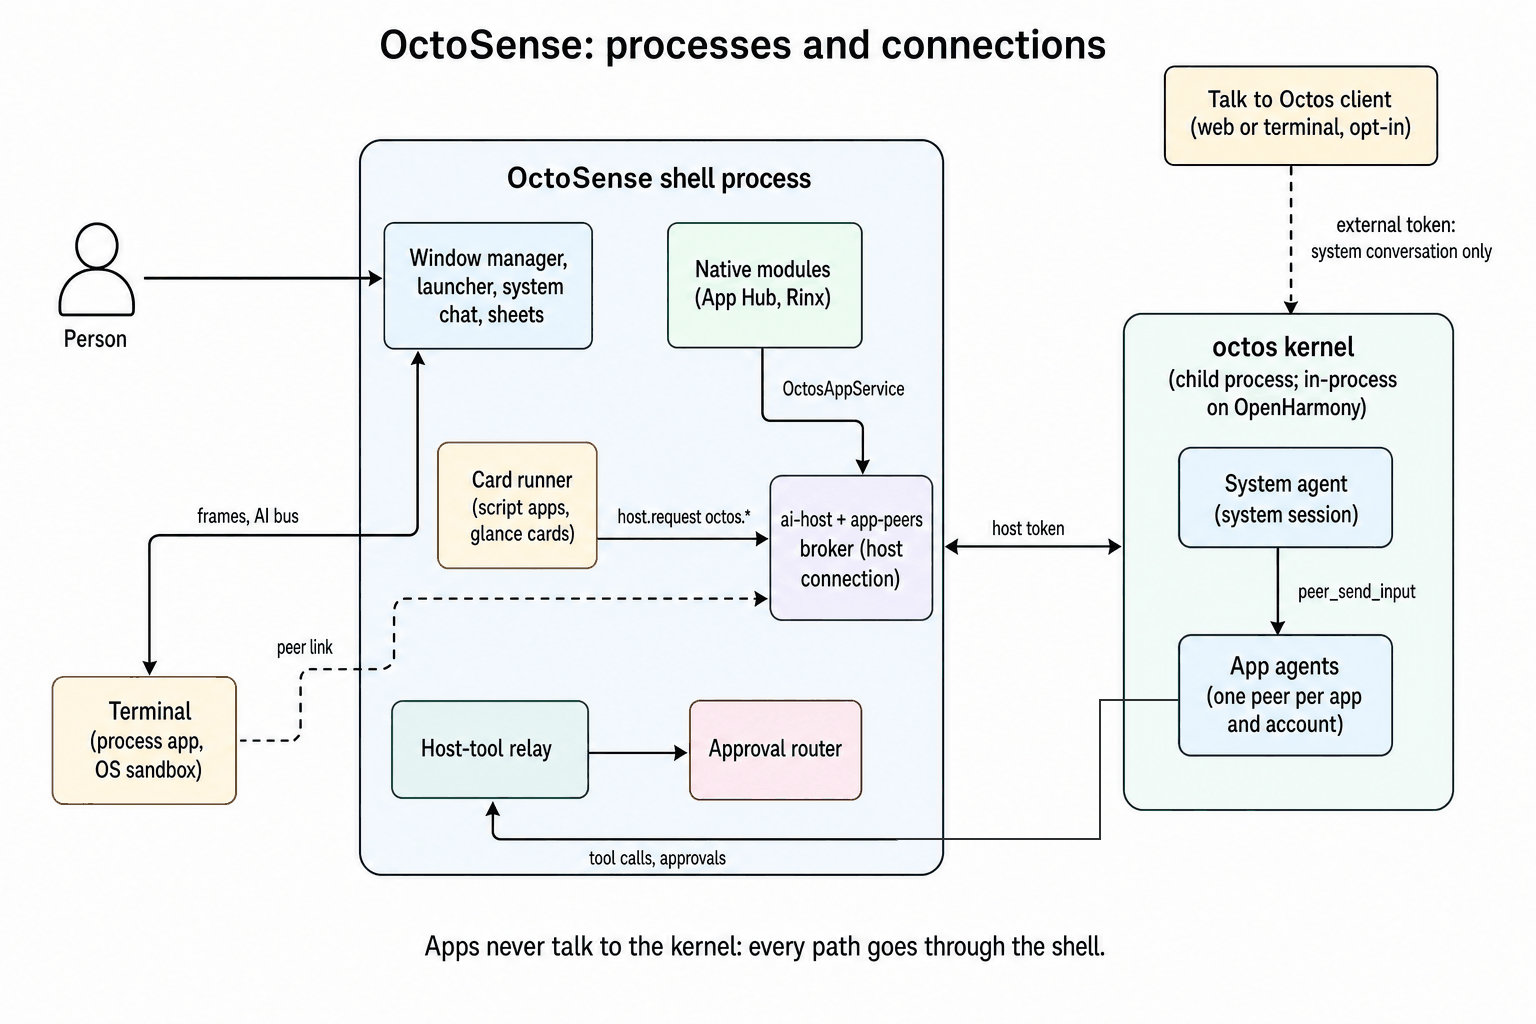
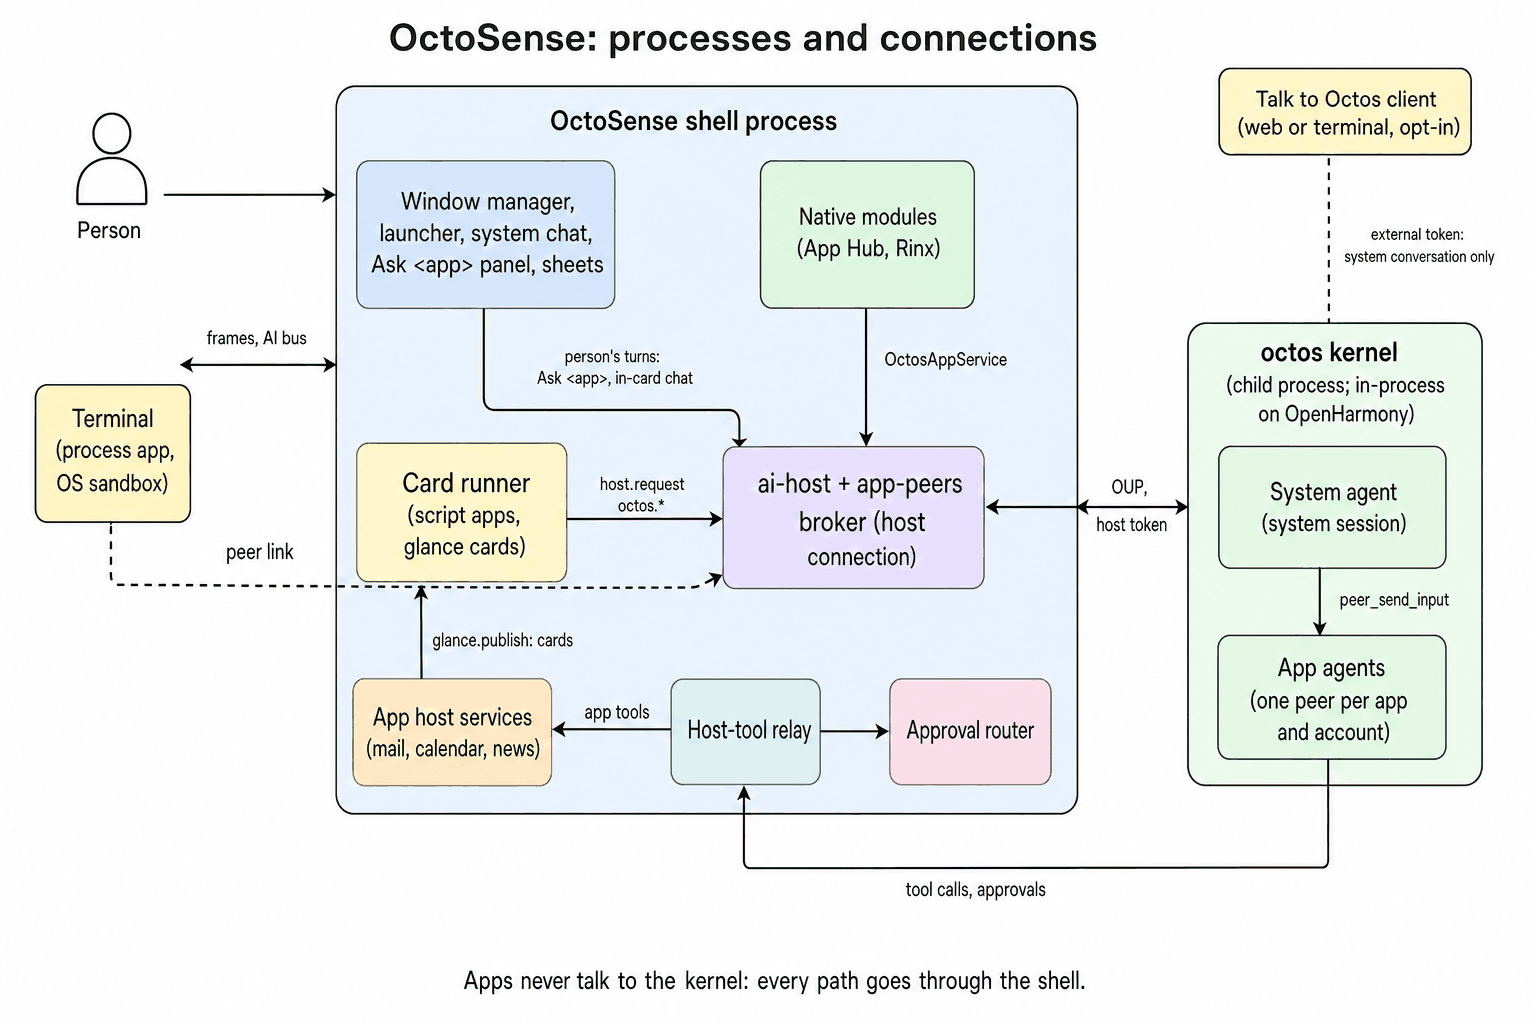
docs: redraw the README's architecture drawings (gpt-image-2)
The drawings were from 2026-09-29 and no longer matched main:

- agents-processes.png: adds the "Ask <app>" panel in the shell's UI, the
  person's turns from it and from in-card chat to the broker, and the app
  host services (mail, calendar, news) the relay routes app tools to, which
  publish glance cards. The Mermaid text version gains the same nodes.
- agents-two-lanes.png: back, without the "Two lanes: in progress" badge
  (both lanes are on main) and with the person's arrow labelled "the
  shell's Ask <app> panel, a card's chat or the app's own UI".
- agents-tool-call.png: the relay's grant, schema and budget checks inside
  each branch and the confirm: app hand-off through the approval router, as
  the Mermaid has them; the example is calendar.remove_event (destructive,
  confirm: host) instead of mail.send, which no app has.
- agents-card-flow.png (new): the system agent -> Mail's agent ->
  mail.notify -> glance card -> in-card chat sequence, with its Mermaid
  moved into a text version like the others.

Drawn with gpt-image-2 and checked label by label against the Mermaid and
the code; quantized to 128 colours (about 460 KB each). English and Chinese
READMEs together.

diff --git a/README.zh-CN.md b/README.zh-CN.md
@@ -29,12 +29,13 @@ flowchart LR
   person(["用户"])
   ext["Talk to Octos 客户端<br/>网页或终端，需手动开启"]
   subgraph shellp["OctoSense Shell 进程"]
-    ui["窗口管理器、启动器、<br/>系统对话、面板"]
+    ui["窗口管理器、启动器、<br/>系统对话、Ask app 面板、面板"]
     mods["原生模块<br/>App Hub、Rinx"]
     runner["Card runner<br/>脚本应用、glance 卡片"]
     aihost["ai-host + app-peers 代理<br/>宿主连接"]
     relay["宿主工具中转"]
     router["审批路由"]
+    svc["应用宿主服务<br/>mail、calendar、news"]
   end
   term["Terminal<br/>在系统沙箱中的进程应用"]
   subgraph kern["octos 内核：子进程，OpenHarmony 上在进程内"]
@@ -44,6 +45,7 @@ flowchart LR
   person --> ui
   ui --- mods
   ui --- runner
+  ui -->|"用户的回合：<br/>Ask app、卡内对话"| aihost
   mods -->|"OctosAppService"| aihost
   runner -->|"host.request octos.*"| aihost
   term <-->|"hub：画面、AI bus"| ui
@@ -52,6 +54,8 @@ flowchart LR
   sys -->|"peer_send_input"| peers
   kern -->|"peer/tool/call、审批"| relay
   relay --> router
+  relay -->|"应用的工具"| svc
+  svc -->|"glance.publish：卡片"| runner
   ext -.->|"外部 token：<br/>只能用系统对话"| sys
 ```
 
@@ -90,6 +94,10 @@ flowchart LR
 
 **从系统 Agent 到 glance 屏幕上的一张卡片**：
 
+![From the system agent to a card on the glance screen](docs/images/agents-card-flow.png)
+
+<details><summary>文字版（Mermaid）</summary>
+
 ```mermaid
 sequenceDiagram
   autonumber
@@ -116,12 +124,18 @@ sequenceDiagram
   A-->>G: the reply, drawn as AI-written
 ```
 
+</details>
+
 - 模型从不编写卡片代码：`mail.notify`、`calendar.notify` 和 `calendar.agenda` 填充应用宿主服务自带的固定 L0 卡片（`apps/mail/host-service/resources/notice.card`、`apps/calendar/host-service/resources/*.card`），并以该应用的身份发布。
 - `mail.notify` 和 `calendar.add_event` 是 `act` 工具，运行时不弹面板；octos 只对破坏性和对外的工具请求审批，这些审批交给 Shell 的审批路由（[见下文](#一次带审批的工具调用)）。
 
 ### 一个应用 Agent，两条通道
 
 一个应用 Agent 就是每个（应用，账号）一个由宿主拥有的 octos **peer**，归系统 Agent 所有，有自己的工作区、记忆命名空间、模型和工具列表。系统 Agent 和用户各自在自己的通道里与它对话：
+
+![One app agent, two lanes](docs/images/agents-two-lanes.png)
+
+<details><summary>文字版（Mermaid）</summary>
 
 ```mermaid
 flowchart TB
@@ -144,6 +158,8 @@ flowchart TB
   lane2 --- own
   mini -->|"open_context"| ctx
 ```
+
+</details>
 
 - **系统 Agent 的通道**是 peer 自己的会话 `…#peer-<app>`。系统 Agent 发送 `peer_send_input`；octos 把它作为 `peer/input` 交给 Shell 的宿主连接，由 Shell 自己启动这一轮，所以这一轮带着应用的工具、记忆和审批运行（对已退出登录的账号或用户未允许的应用，Shell 以 `peer/input/reject` 拒绝）。peer 的结果写到 peer 黑板上，由系统 Agent 读取。
 - **用户的通道**是一个请求上下文 `…#peerctx-<app>.<id>`，以 `share_history` 打开，打开方可以是 Shell 的 “Ask <app>” 面板（`agents::conversation`，客户端实例 `shell-ask`）、卡片的卡内对话，或应用自己的界面（原生模块的 `open_conversation`、脚本应用的 `octos.session.open`、进程应用的 peer link），每个句柄一个新的上下文（[octos#2636](https://github.com/octos-org/octos/pull/2636)，UPCR-2026-034）。两条通道并行运行，每个会话同一时间只有一轮：用户的消息不必等系统 Agent 的回合。每一轮都会以只读块的形式看到另一条通道的最近消息，这个块不会写入自己的对话记录；每一轮都标明说话者（`[from the person: <app>]`、`[from the system agent]`）。应用跟随两条通道，每个事件带有 `lane` 和说话者；`octos.session.history` 按时间合并两份对话记录。用户的回合也会在黑板上留下结果（`origin: person`），系统 Agent 用 `peer_gather` 就能看到。
@@ -184,7 +200,7 @@ sequenceDiagram
   participant Ro as 审批路由
   participant P as 用户
   participant Ex as 拥有工具的应用
-  Ag->>K: 调用 mail.send
+  Ag->>K: 调用 calendar.remove_event
   alt confirm host
     K->>Ro: approval/requested，host_tool
     Ro->>Ro: 先看开发者模式，再看常设规则

diff --git a/README.md b/README.md
@@ -29,12 +29,13 @@ flowchart LR
   person(["Person"])
   ext["Talk to Octos client<br/>web or terminal, opt-in"]
   subgraph shellp["OctoSense shell process"]
-    ui["Window manager, launcher,<br/>system chat, sheets"]
+    ui["Window manager, launcher,<br/>system chat, Ask app panel, sheets"]
     mods["Native modules<br/>App Hub, Rinx"]
     runner["Card runner<br/>script apps, glance cards"]
     aihost["ai-host + app-peers broker<br/>host connection"]
     relay["Host-tool relay"]
     router["Approval router"]
+    svc["App host services<br/>mail, calendar, news"]
   end
   term["Terminal<br/>process app in an OS sandbox"]
   subgraph kern["octos kernel: child process, in process on OpenHarmony"]
@@ -44,6 +45,7 @@ flowchart LR
   person --> ui
   ui --- mods
   ui --- runner
+  ui -->|"person's turns:<br/>Ask app, in-card chat"| aihost
   mods -->|"OctosAppService"| aihost
   runner -->|"host.request octos.*"| aihost
   term <-->|"hub: frames, AI bus"| ui
@@ -52,6 +54,8 @@ flowchart LR
   sys -->|"peer_send_input"| peers
   kern -->|"peer/tool/call, approvals"| relay
   relay --> router
+  relay -->|"app tools"| svc
+  svc -->|"glance.publish: cards"| runner
   ext -.->|"external token:<br/>system conversation only"| sys
 ```
 
@@ -90,6 +94,10 @@ A script app has an agent when its manifest declares `octos.*` names or an `agen
 
 **From the system agent to a card on the glance screen**:
 
+![From the system agent to a card on the glance screen](docs/images/agents-card-flow.png)
+
+<details><summary>Text version (Mermaid)</summary>
+
 ```mermaid
 sequenceDiagram
   autonumber
@@ -116,12 +124,18 @@ sequenceDiagram
   A-->>G: the reply, drawn as AI-written
 ```
 
+</details>
+
 - The model never writes card code: `mail.notify`, `calendar.notify` and `calendar.agenda` fill a fixed L0 card the app's host service ships (`apps/mail/host-service/resources/notice.card`, `apps/calendar/host-service/resources/*.card`) and publish it as the app.
 - `mail.notify` and `calendar.add_event` are `act` tools and run without a sheet; octos asks for approval only for destructive and outward tools, which go to the shell's approval router ([below](#a-tool-call-with-an-approval)).
 
 ### One app agent, two lanes
 
 An app agent is one host-owned octos **peer** per (app, account), owned by the system agent, with its own workspace, memory namespace, model and tool list. The system agent and the person each talk to it in their own lane:
+
+![One app agent, two lanes](docs/images/agents-two-lanes.png)
+
+<details><summary>Text version (Mermaid)</summary>
 
 ```mermaid
 flowchart TB
@@ -144,6 +158,8 @@ flowchart TB
   lane2 --- own
   mini -->|"open_context"| ctx
 ```
+
+</details>
 
 - **The system agent's lane** is the peer's own session, `…#peer-<app>`. The system agent sends `peer_send_input`; octos delivers it to the shell's host connection as `peer/input`, and the shell starts the turn itself, so it runs with the app's tools, memory and approvals (or refuses it with `peer/input/reject` for a signed-out account or an app the person has not allowed). The peer's results go to the peers' blackboard, which the system agent reads.
 - **The person's lane** is a request context, `…#peerctx-<app>.<id>`, opened with `share_history` by the shell's "Ask <app>" panel (`agents::conversation`, client instance `shell-ask`), by a card's in-card chat, or by the app's own UI (a native module's `open_conversation`, a script app's `octos.session.open`, a process app's peer link), a new one for every handle ([octos#2636](https://github.com/octos-org/octos/pull/2636), UPCR-2026-034). The two lanes run in parallel, one turn at a time per session: a person's message never waits for the system agent's turn. Each turn sees the other lane's recent messages as a read-only block that is never written into its own transcript, and every turn is labelled by its speaker (`[from the person: <app>]`, `[from the system agent]`). The app follows both lanes, each event tagged with its `lane` and speaker; `octos.session.history` merges both transcripts by time. The person's turns also leave rounds on the blackboard (`origin: person`), so the system agent sees them with `peer_gather`.
@@ -184,7 +200,7 @@ sequenceDiagram
   participant Ro as Approval router
   participant P as Person
   participant Ex as Owning app
-  Ag->>K: call mail.send
+  Ag->>K: call calendar.remove_event
   alt confirm host
     K->>Ro: approval/requested, host_tool
     Ro->>Ro: dev mode, then standing rules
